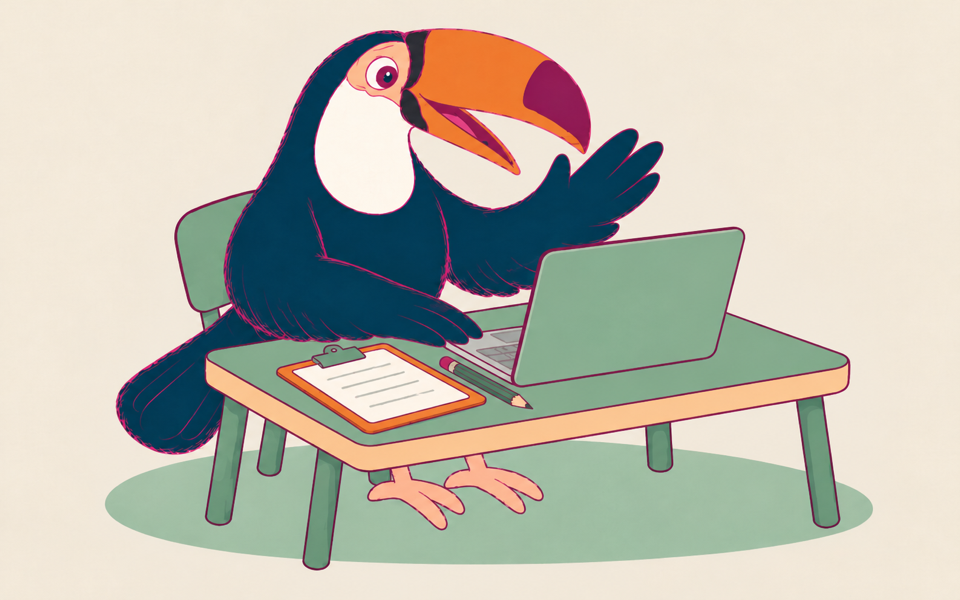
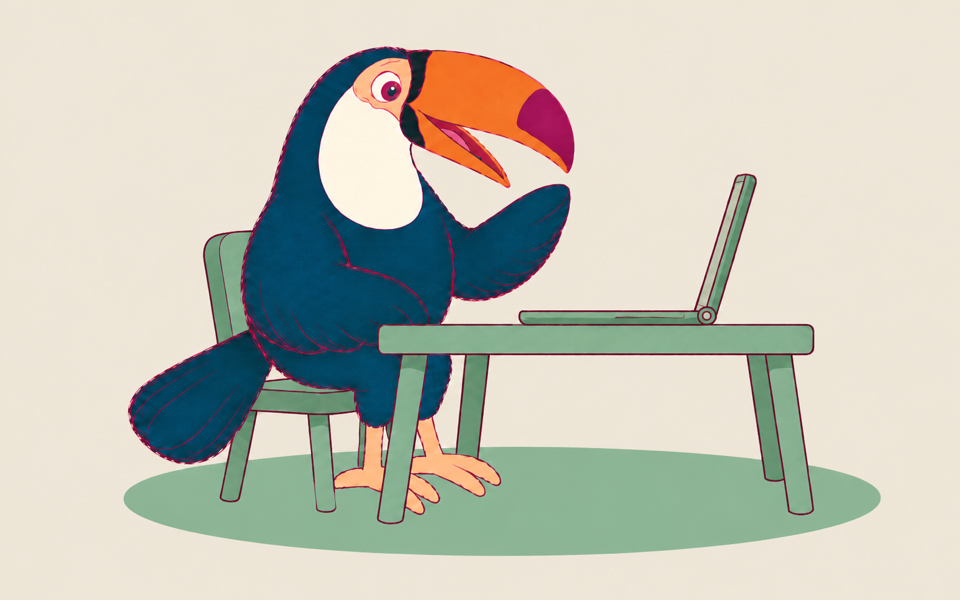
Getting started: redrawn step pictures 1 and 3 (owner picked 1a and 3c; the old ones looked AI-made)

Changed region(s): [[0.0938, 0.03, 0.9375, 0.96]]

diff --git a/children.html b/children.html
@@ -131,9 +131,9 @@
         <section id="getting-started" class="steps-panel" data-content-panel aria-labelledby="getting-started-heading">
           <div class="section-head"><span id="overview"></span><h2 id="getting-started-heading">An easy sign-up process.</h2><p>Tell us the broad goal and current difficulty. We will take it from there.</p></div>
                     <ol class="learning-steps">
-            <li class="picture-cell"><div class="picture-cell-media"><img class="learning-step-art" src="assets/art/step-01.png" alt="" width="960" height="600" loading="lazy" decoding="async" /></div><div class="picture-cell-copy"><h3>Start with a free session</h3><p>Your free first session is a live diagnostic: we get to know you and how best to support you.</p></div></li>
+            <li class="picture-cell"><div class="picture-cell-media"><img class="learning-step-art" src="assets/art/step-01.png?v=20261031-redraw-1" alt="" width="960" height="600" loading="lazy" decoding="async" /></div><div class="picture-cell-copy"><h3>Start with a free session</h3><p>Your free first session is a live diagnostic: we get to know you and how best to support you.</p></div></li>
             <li class="picture-cell"><div class="picture-cell-media"><img class="learning-step-art" src="assets/art/step-02.png" alt="" width="960" height="600" loading="lazy" decoding="async" /></div><div class="picture-cell-copy"><h3>Agree the next steps</h3><p>We use the diagnostic report to choose the skills to practise and a pace that suits the learner.</p></div></li>
-            <li class="picture-cell"><div class="picture-cell-media"><img class="learning-step-art" src="assets/art/step-03.png" alt="" width="960" height="600" loading="lazy" decoding="async" /></div><div class="picture-cell-copy"><h3>Work towards your goal</h3><p>Sessions can combine focused skill-building, exam preparation and meaningful longer-term projects.</p></div></li>
+            <li class="picture-cell"><div class="picture-cell-media"><img class="learning-step-art" src="assets/art/step-03.png?v=20261031-redraw-1" alt="" width="960" height="600" loading="lazy" decoding="async" /></div><div class="picture-cell-copy"><h3>Work towards your goal</h3><p>Sessions can combine focused skill-building, exam preparation and meaningful longer-term projects.</p></div></li>
             <li class="picture-cell"><div class="picture-cell-media"><img class="learning-step-art" src="assets/art/step-04.png" alt="" width="960" height="600" loading="lazy" decoding="async" /></div><div class="picture-cell-copy"><h3>Review the plan each week</h3><p>Your tutor writes a weekly lesson report, and our founder reads it. We review what is working and adjust the learner’s plan.</p></div></li>
           </ol>
           <p><a class="button" href="contact" data-service="children">Tell us your child’s goal <span aria-hidden="true">→</span></a></p>

diff --git a/approach.html b/approach.html
@@ -124,9 +124,9 @@
         <section id="steps-to-success" class="steps-panel" data-content-panel aria-labelledby="steps-heading">
           <div class="section-head" id="how-it-works"><h2 id="steps-heading">Getting started</h2><p class="approach-swash">A starting point, useful practice and a longer-term direction. We keep adjusting the plan around the learner.</p></div>
           <ol class="learning-steps">
-            <li id="learn-about-you" class="picture-cell"><div class="picture-cell-media"><img class="learning-step-art" src="assets/art/step-01.png" alt="" width="960" height="600" loading="lazy" decoding="async" /></div><div class="picture-cell-copy"><h3>Start with a free session</h3><p>A free diagnostic session helps us get to know you.</p></div></li>
+            <li id="learn-about-you" class="picture-cell"><div class="picture-cell-media"><img class="learning-step-art" src="assets/art/step-01.png?v=20261031-redraw-1" alt="" width="960" height="600" loading="lazy" decoding="async" /></div><div class="picture-cell-copy"><h3>Start with a free session</h3><p>A free diagnostic session helps us get to know you.</p></div></li>
             <li id="skill-building" class="picture-cell"><div class="picture-cell-media"><img class="learning-step-art" src="assets/art/step-02.png" alt="" width="960" height="600" loading="lazy" decoding="async" /></div><div class="picture-cell-copy"><h3>Agree the next steps</h3><p>Choose skills to practise and a pace that suits you.</p></div></li>
-            <li id="projects-and-goals" class="picture-cell"><div class="picture-cell-media"><img class="learning-step-art" src="assets/art/step-03.png" alt="" width="960" height="600" loading="lazy" decoding="async" /></div><div class="picture-cell-copy"><h3>Work towards your goal</h3><p>Combine skill-building, exam preparation and meaningful projects.</p></div></li>
+            <li id="projects-and-goals" class="picture-cell"><div class="picture-cell-media"><img class="learning-step-art" src="assets/art/step-03.png?v=20261031-redraw-1" alt="" width="960" height="600" loading="lazy" decoding="async" /></div><div class="picture-cell-copy"><h3>Work towards your goal</h3><p>Combine skill-building, exam preparation and meaningful projects.</p></div></li>
             <li class="picture-cell"><div class="picture-cell-media"><img class="learning-step-art" src="assets/art/step-04.png" alt="" width="960" height="600" loading="lazy" decoding="async" /></div><div class="picture-cell-copy"><h3>Review the plan each week</h3><p>Your tutor reports each week, helping us review and adjust your plan.</p></div></li>
           </ol>
           <div class="approach-panel-cta"><a class="button" href="contact">Book a free first session</a></div>
